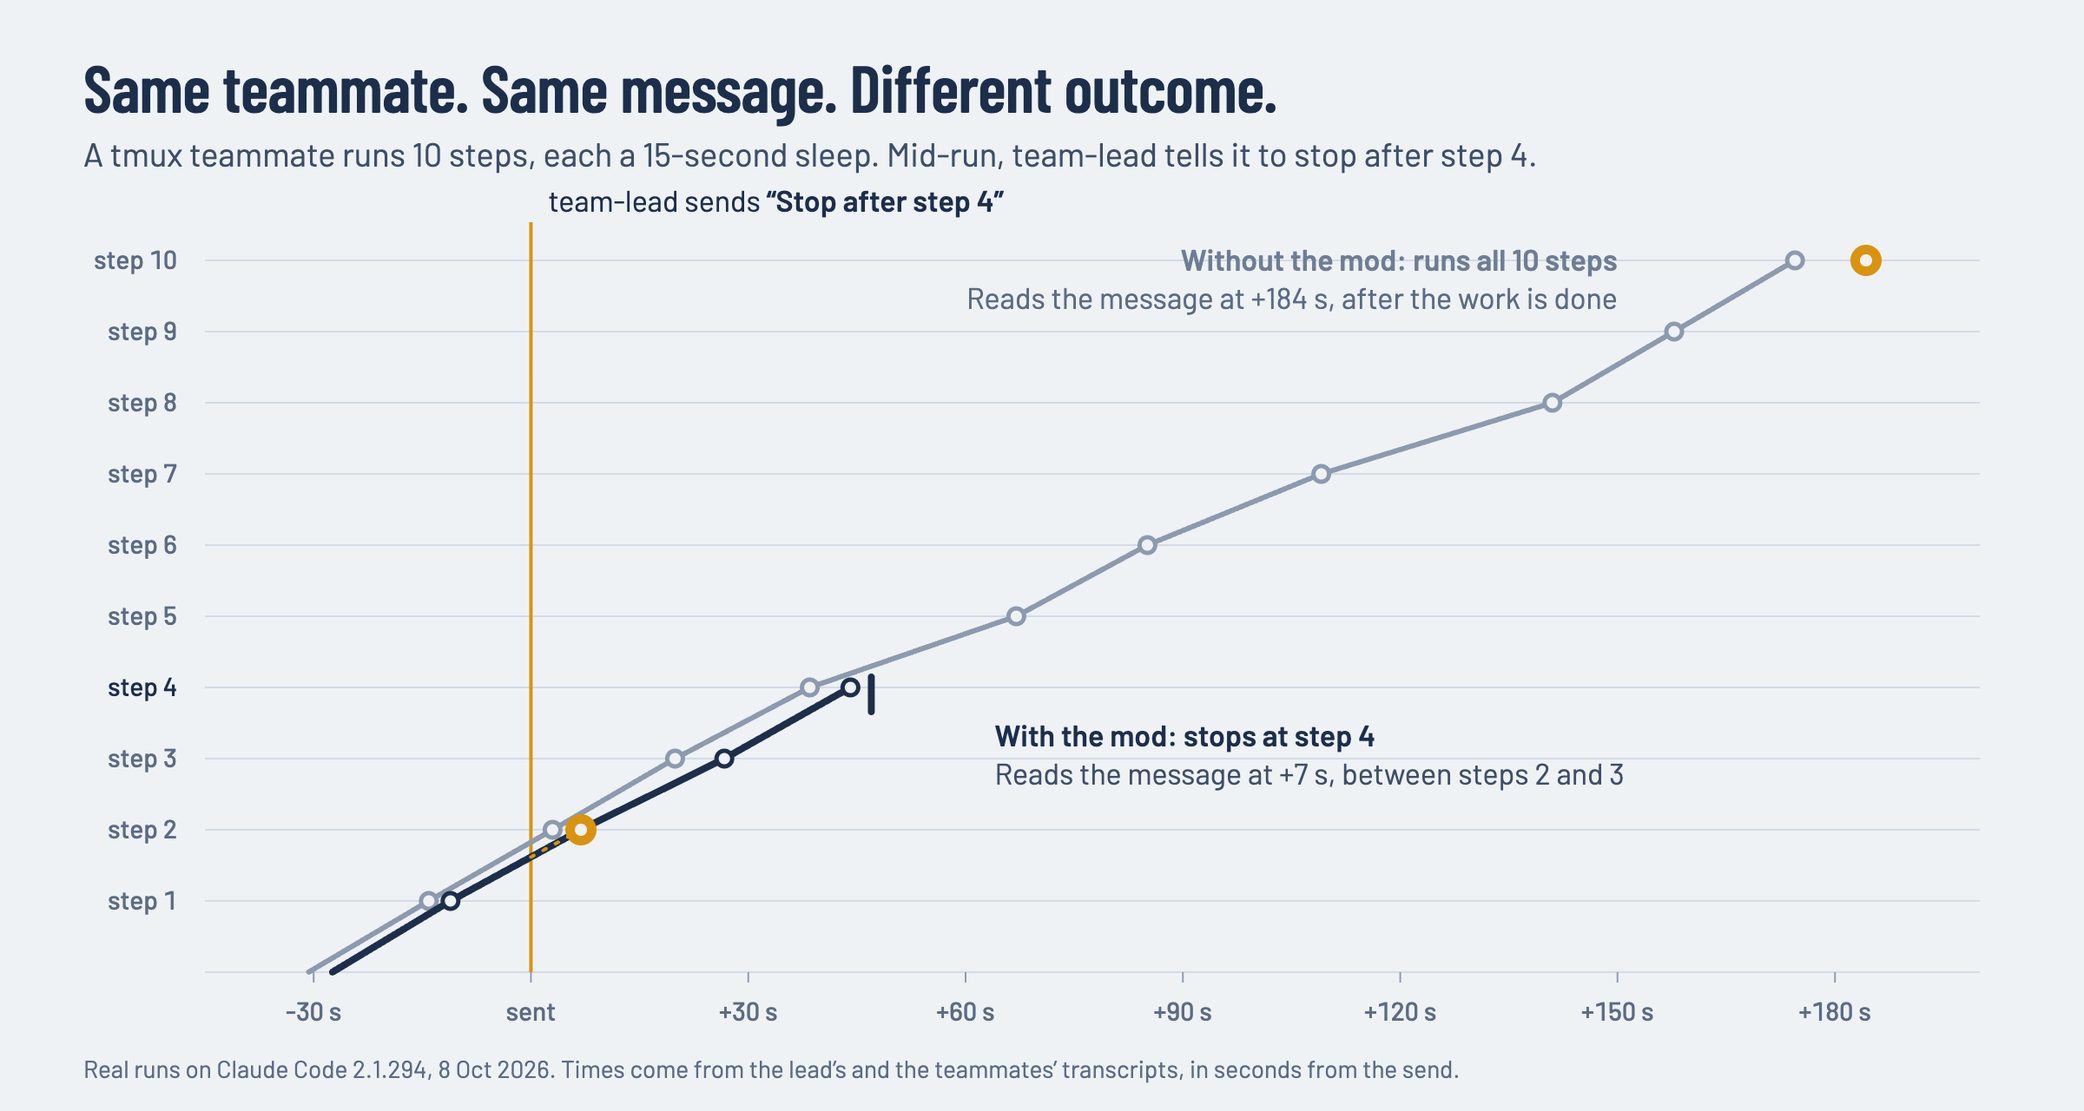
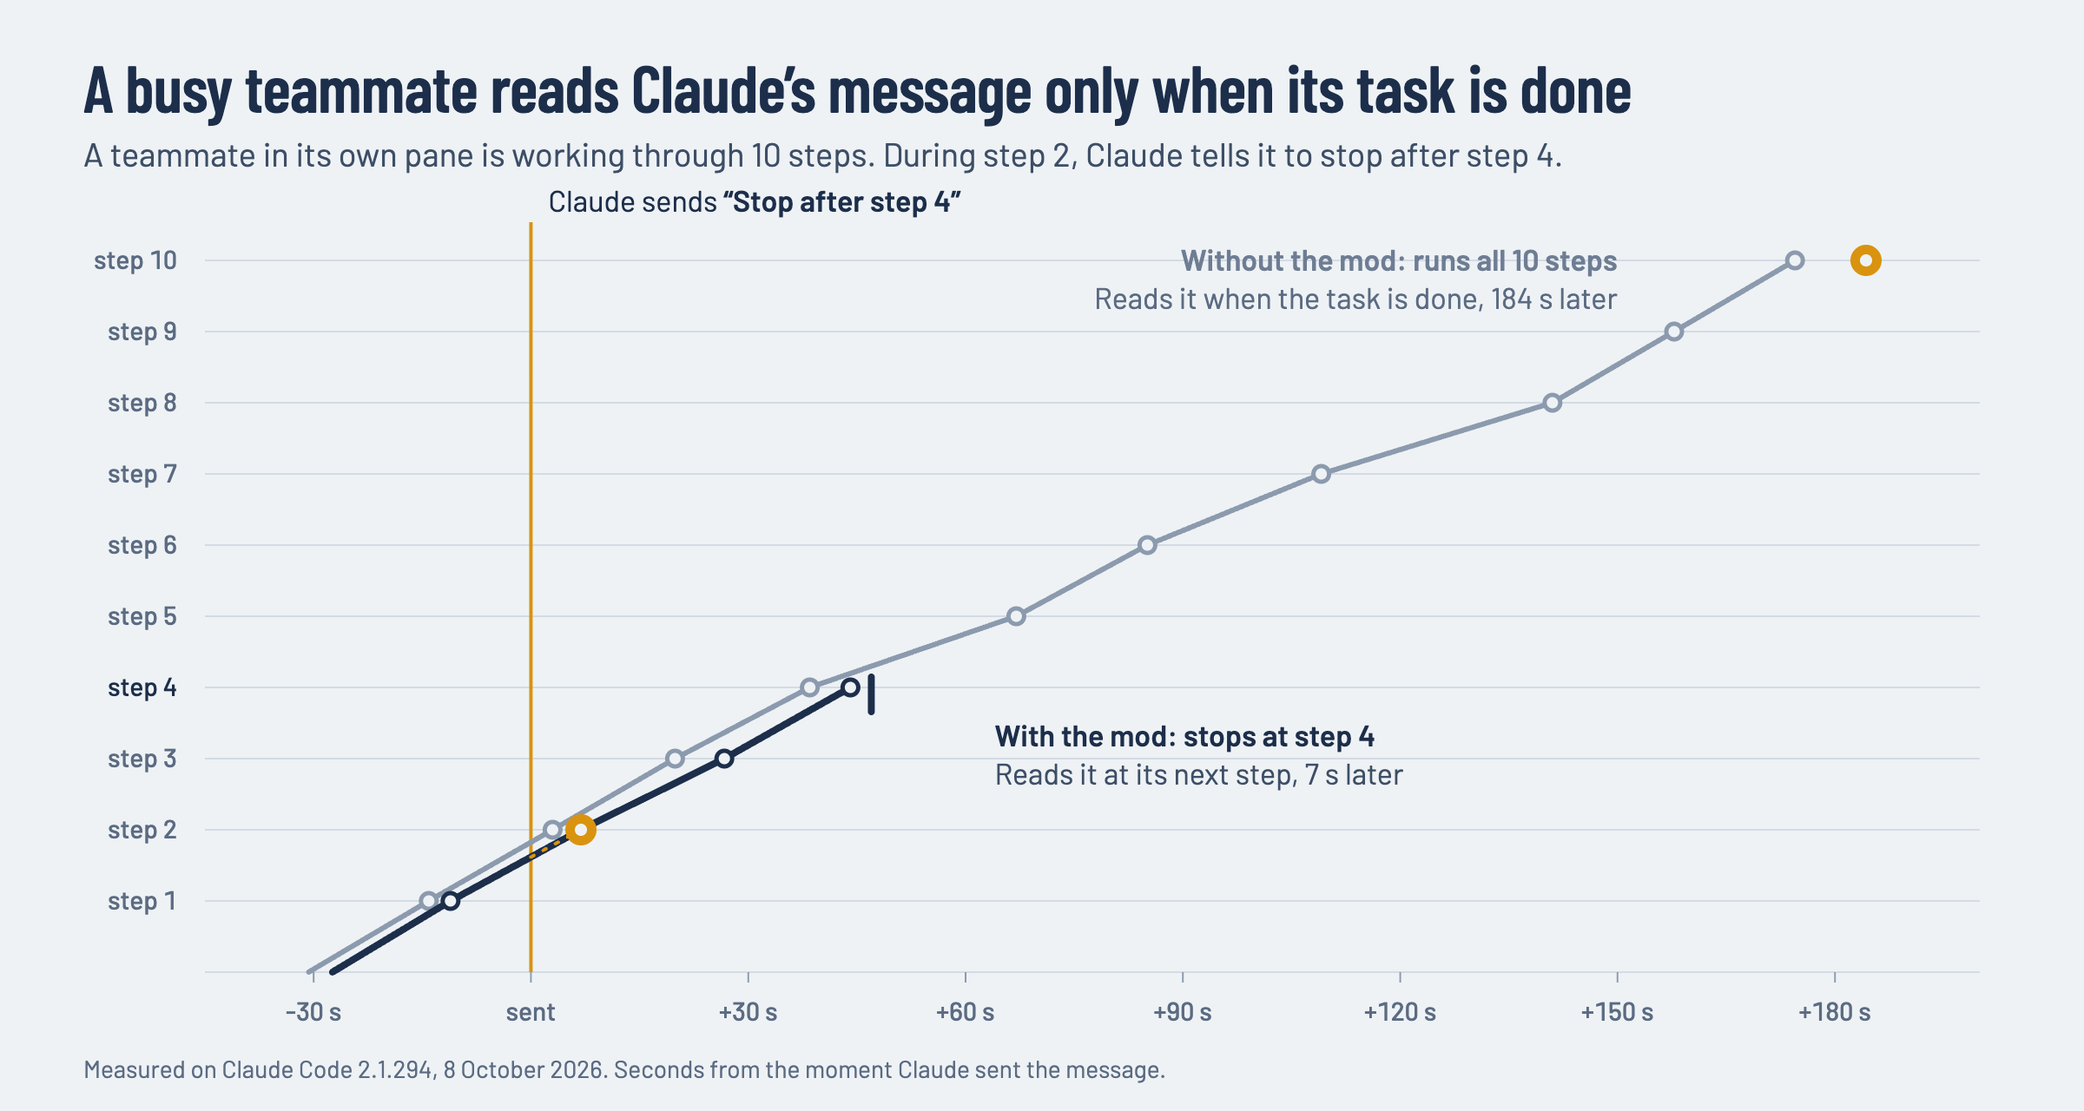
Rewrite the README as plain reference documentation
- Standard sections: what it is, why, features, install, usage,
  configuration, limitations, how it works, development, license.
- Written from the user's side: you ask Claude, Claude messages its agents.
  No persuasion, no instructions addressed to Claude.
- The chart moves under Why and states the problem in its own words.
- The masthead drops SendMessage and says what the mod does.

Claude-Session: https://claude.ai/code/session_018UedULr4ikvwnNQLrpfBNW

diff --git a/docs/figures/build.py b/docs/figures/build.py
@@ -56,7 +56,7 @@ def proof() -> str:
 
     # the dispatch: team-lead's message at t = 0
     svg.append(f'<line x1="{X(0):.1f}" x2="{X(0):.1f}" y1="{top - 22}" y2="{bottom}" stroke="{AMBER}" stroke-width="2"/>')
-    svg.append(f'<text x="{X(0) + 10:.1f}" y="{top - 28}" class="note" fill="{INK}">team-lead sends '
+    svg.append(f'<text x="{X(0) + 10:.1f}" y="{top - 28}" class="note" fill="{INK}">Claude sends '
                f'<tspan font-weight="600">“Stop after step 4”</tspan></text>')
 
     def run(series, colour, width):
@@ -84,13 +84,13 @@ def proof() -> str:
 
     labels = [
         (X(64), Y(4) + 34, INK, 600, 'With the mod: stops at step 4'),
-        (X(64), Y(4) + 56, '#3D4E66', 400, 'Reads the message at +7 s, between steps 2 and 3'),
+        (X(64), Y(4) + 56, '#3D4E66', 400, 'Reads it at its next step, 7 s later'),
     ]
     for x, y, colour, weight, text in labels:
         svg.append(f'<text x="{x:.1f}" y="{y:.1f}" class="label" font-weight="{weight}" fill="{colour}">{text}</text>')
     for y, colour, weight, text in [
         (Y(10) + 6, '#6E7D93', 600, 'Without the mod: runs all 10 steps'),
-        (Y(10) + 28, '#5B6B82', 400, 'Reads the message at +184 s, after the work is done'),
+        (Y(10) + 28, '#5B6B82', 400, 'Reads it when the task is done, 184 s later'),
     ]:
         svg.append(f'<text x="{X(150):.1f}" y="{y:.1f}" text-anchor="end" class="label" font-weight="{weight}" fill="{colour}">{text}</text>')
 
@@ -105,10 +105,10 @@ svg{{position:absolute;left:0;top:0}}
 .note{{font:400 17px Barlow}}
 .label{{font-family:Barlow;font-size:17px}}
 </style></head><body><div id="fig">
-<h1>Same teammate. Same message. Different outcome.</h1>
-<p>A tmux teammate runs 10 steps, each a 15-second sleep. Mid-run, team-lead tells it to stop after step 4.</p>
+<h1>A busy teammate reads Claude’s message only when its task is done</h1>
+<p>A teammate in its own pane is working through 10 steps. During step 2, Claude tells it to stop after step 4.</p>
 <svg width="{w}" height="{h}" viewBox="0 0 {w} {h}">{"".join(svg)}</svg>
-<div class="p foot">Real runs on Claude Code 2.1.294, 8 Oct 2026. Times come from the lead’s and the teammates’ transcripts, in seconds from the send.</div>
+<div class="p foot">Measured on Claude Code 2.1.294, 8 October 2026. Seconds from the moment Claude sent the message.</div>
 </div></body></html>'''
 
 
@@ -185,8 +185,8 @@ svg{{position:absolute;left:0;top:0}}
 .agent{{font:600 27px "Barlow Condensed";letter-spacing:0.01em}}
 </style></head><body><div id="fig">
 <div class="word">BetterAgent<br>Messaging</div>
-<div class="promise"><b>For Claude Code subagents and agent teams.</b><br>Your message reaches a working teammate at its next step, not after it finishes.</div>
-<div class="verbs"><span>SendMessage</span><span class="hold">hold:</span><span>release</span><span>standing:</span><span>to: "all"</span></div>
+<div class="promise"><b>For Claude Code subagents and agent teams.</b><br>Messages reach a working agent at its next step, not after it finishes.</div>
+<div class="verbs"><span class="hold">hold:</span><span class="hold">hold ship:</span><span>release</span><span>standing:</span></div>
 <svg width="{w}" height="{h}" viewBox="0 0 {w} {h}">{"".join(svg)}</svg>
 </div></body></html>'''
 

diff --git a/README.md b/README.md
@@ -1,12 +1,30 @@
 <p align="center">
-  <img src="docs/images/hero.png" width="100%" alt="BetterAgentMessaging for Claude Code subagents and agent teams: your message reaches a working teammate at its next step, not after it finishes. A train graph shows three agents climbing through their steps while team-lead's messages land on them mid-task, one agent paused by a hold.">
+  <img src="docs/images/hero.png" width="100%" alt="BetterAgentMessaging, for Claude Code subagents and agent teams: messages reach a working agent at its next step, not after it finishes. A train graph shows three agents climbing through their steps while team-lead's messages land on them mid-task, one agent paused by a hold.">
 </p>
 
 # BetterAgentMessaging-CC
 
-A Claude Code mod for subagents and agent teams. When you `SendMessage` a teammate that is busy working, it reads your message at its next step instead of after it has finished. Teammates' messages reach you the same way. You also get directives the harness enforces (`hold:`, `hold ship:`, `release`, `standing:`) and a live view of what every agent is doing.
+A Claude Code mod that delivers messages to agents while they are working, instead of after they finish.
 
-You keep using `SendMessage`. There are no new tools to learn, no inbox files to manage, and no watchers to keep alive.
+> An independent open-source project, not affiliated with or endorsed by Anthropic. It uses Claude Code's mods API, which is in early access and may change.
+
+## Why
+
+In an agent team, a teammate running in its own pane receives messages only between turns. If Claude tells a working teammate to stop or change course, the teammate reads the message after it has finished its task. Reports from teammates to Claude are held the same way, until Claude's own turn ends.
+
+<p align="center">
+  <img src="docs/images/before-after.png" width="100%" alt="Chart of a teammate's steps over time after Claude tells it, during step 2, to stop after step 4. Without the mod it runs all 10 steps and reads the message when the task is done, 184 seconds later. With the mod it reads the message at its next step, 7 seconds later, and stops at step 4.">
+</p>
+
+The runs behind this chart are in [docs/experiment.md](docs/experiment.md).
+
+## Features
+
+- **Mid-task delivery.** A working teammate reads a message at its next step. Teammates' reports reach Claude while it is working.
+- **Holds.** `hold:` blocks every tool call of an agent and of the helpers it starts. `hold ship:` blocks only pushes, merges, releases, publishing, deploys and `rm -rf`. `release` lifts either. Claude Code enforces holds; the agent does not have to comply.
+- **Standing rules.** `standing:` sets a rule that is restated to the agent after context compaction. Sent to `all`, it also goes to agents started later.
+- **Status.** A line above the prompt shows unread mid-task messages and any paused or stuck agent. `/agent-status` lists every agent, and Claude is told when an agent looks stuck.
+- **Delivery fixes.** Teammate reports addressed to `main` or `lead` are delivered to Claude, and a teammate that finishes without reporting has its whole final answer forwarded.
 
 ## Install
 
@@ -14,9 +32,9 @@ You keep using `SendMessage`. There are no new tools to learn, no inbox files to
 claude plugin install better-agent-messaging --marketplace flyryan/BetterAgentMessaging-CC
 ```
 
-Run it in your shell, then restart any open Claude Code sessions. It adds this repository as a plugin marketplace and installs the mod at **user scope**, the default. User scope is the one that matters: the mod has to load in every Claude Code process, which means your session and each teammate's pane. Inside Claude Code, the same install is `/plugin install better-agent-messaging --marketplace flyryan/BetterAgentMessaging-CC`.
+Restart any open Claude Code sessions afterwards. The mod installs at user scope (the default), so it loads in every Claude Code process, including each teammate's pane. Inside Claude Code the same install is `/plugin install better-agent-messaging --marketplace flyryan/BetterAgentMessaging-CC`.
 
-**Requirements:** Claude Code 2.1.294 or later, which is where mods (function hooks) are available. It works with plain background subagents and with [agent teams](https://code.claude.com/docs/en/agent-teams); teammates in their own tmux panes gain the most.
+Requires Claude Code 2.1.294 or later. Works with background subagents and with [agent teams](https://code.claude.com/docs/en/agent-teams); teammates in their own tmux panes benefit most.
 
 <details>
 <summary>Check, update or remove it</summary>
@@ -27,92 +45,57 @@ claude plugin update better-agent-messaging   # then restart open sessions
 claude plugin uninstall better-agent-messaging
 ```
 
-In a session, `/agent-status` exists only while the mod is loaded.
+`/agent-status` exists only while the mod is loaded.
 </details>
 
-> An independent open-source project. Not affiliated with or endorsed by Anthropic. The mods API is early access, so a later Claude Code release may change it.
+## Usage
 
-## The problem
+There is nothing to set up. Ask Claude in plain language, for example "hold the reviewer's pushes until QA signs off", and Claude puts the matching directive on the first line of its message to that agent. The mod teaches Claude the directives and adds them to every agent's instructions.
 
-Run an agent team with teammates in their own tmux panes, and send a busy teammate "stop after step 4", and the message waits in its mailbox until its turn is over. It arrives after step 10. Reports travel the same way: a teammate's update to the lead waits until the lead's own turn ends.
-
-Here is that exact run, before and after the mod: the same teammate, the same task and the same message.
-
-<p align="center">
-  <img src="docs/images/before-after.png" width="100%" alt="Chart of steps reached over time. Without the mod the teammate runs all 10 steps and reads the message 184 seconds after it was sent. With the mod it reads the message 7 seconds after the send, between steps 2 and 3, and stops at step 4.">
-</p>
-
-Without the mod, the teammate read the message 184 seconds after it was sent, once all ten steps were done. With the mod, it read it 7 seconds in, at its next step, and stopped at step 4. [Read about the runs](docs/experiment.md).
-
-## Use it
-
-Send messages exactly as before. A teammate that is working gets your message at its next step, framed so it knows it came from you mid-task and that it outranks its original brief. Your teammates' reports land in your turn while you are still working. You see it arrive too: a line directly above the pane's prompt shows who sent it, whether the agent has read it yet, and its first line, such as `team-lead sent (unread): stop after step 4`. It says `(read)` once the agent's next model request carries the message, then clears 15 seconds later. The transcript keeps the whole message under the sender's name in its team color, the way Claude Code shows a teammate's message.
-
-### Directives
-
-Start a message's first line with one of these, and the agent's own process enforces it:
-
-| First line | What happens |
+| First line | Effect |
 |---|---|
-| `hold: <reason>` | The harness refuses every tool the agent calls (SendMessage still works) until you send `release`. A hold also covers any helper agents it starts. |
-| `hold ship: <reason>` | Only shipping is refused: `git push`, PR merges, releases, `npm publish`, deploys, `rm -rf`. Other work carries on. |
-| `release` or `release: <note>` | Lifts the hold. |
-| `standing: <rule>` | A rule that stays in force. It is restated to the agent after its context is compacted. |
-| `standing clear` | Drops the standing orders. |
+| `hold: <reason>` | Refuses every tool call except messaging, until `release`. |
+| `hold ship: <reason>` | Refuses `git push`, PR merges, releases, `npm publish`, deploys and `rm -rf`, until `release`. |
+| `release` or `release: <note>` | Lifts a hold. |
+| `standing: <rule>` | Keeps a rule in force across compaction. |
+| `standing clear` | Drops all standing rules. |
 
-```text
-SendMessage  to: "review"   message: "hold ship: QA hasn't signed off yet"
-SendMessage  to: "all"      message: "standing: run the test suite before every commit"
-```
-
-Send to `all` to reach every running or idle agent and teammate at once. (`SendMessage` refuses `*` before any mod can see it.) A standing order sent to `all` is also written into the brief of every agent you spawn afterwards.
-
-The lead learns these directives without being told. The mod adds a short section to its system prompt, or, where Claude Code keeps installed plugins out of the system prompt (machines with managed settings, Team and Enterprise plans), a note in its conversation that it reads from its second request on. Every agent you spawn learns how to read them from a paragraph added to its brief.
-
-### See what your agents are doing
+A message to `all` reaches every running or idle agent.
 
 <p align="center">
-  <img src="docs/images/team-window.png" width="100%" alt="A tmux window with three Claude Code panes. Left, the lead, which has just sent two messages mid-task; above its prompt one dim line reads: review can't ship: QA hasn't signed off. Top right, teammate impl, on step 4 of 8; above its prompt: team-lead sent: also write DONE to impl.log after your last step. Bottom right, teammate review, on check 4; above its prompt: team-lead sent: hold ship: QA hasn't signed off, and below it, team-lead blocked shipping: QA hasn't signed off.">
+  <img src="docs/images/team-window.png" width="100%" alt="A tmux window with three Claude Code panes. Left, Claude as team-lead, which has just sent two messages mid-task; above its prompt one dim line reads: review can't ship: QA hasn't signed off. Top right, teammate impl, on step 4 of 8; above its prompt: team-lead sent: also write DONE to impl.log after your last step. Bottom right, teammate review, on check 4; above its prompt: team-lead sent: hold ship: QA hasn't signed off, and below it, team-lead blocked shipping: QA hasn't signed off.">
 </p>
 
-- **Above the prompt**, a dim line appears only when there is something Claude Code's own agent list doesn't show, always led by the agent's name: `review can't ship: QA hasn't signed off`, `docs is paused: waiting for review`, `impl looks stuck: in Bash for 47m`. A held teammate's own pane shows its hold the same way (`team-lead blocked shipping: …`), and any pane shows a message that arrived mid-turn until it has been read (`impl sent (unread): tests pass, opening the PR`).
-- **ListAgents** results gain a live-state table. When the lead lists its agents, it sees what each one is doing.
-- **`/agent-status`** opens the same table in a pane.
-- **Stale agents** are reported to the lead on their own. An agent counts as stale after 20 minutes with no step and no tool running, or after 45 minutes inside a single tool call. Both times are configurable.
+The line above each prompt shows what is not visible elsewhere: a mid-task message until it is read (`team-lead sent (unread): …`, then `(read)` for 15 seconds), a teammate's own hold (`team-lead blocked shipping: …`), and in Claude's pane any agent that is paused or stuck (`review can't ship: …`, `impl looks stuck: in Bash for 47m`). `team-lead` is Claude's name in its team.
 
 <p align="center">
   <img src="docs/images/ship-hold.png" width="602" alt="Teammate review's pane. It runs git push origin main once, and the harness refuses it: Error: On a ship hold by team-lead: QA hasn't signed off. Pushing, merging, releasing, publishing, deploying and rm -rf are refused until team-lead sends release. Other work may continue. review reports the refusal and does not retry. Above its prompt: team-lead blocked shipping: QA hasn't signed off.">
 </p>
 
-Under `hold ship:`, `review` first holds back on its own. Asked to try the push once anyway, it is refused by the harness, not by its own judgement, and the remote does not move.
-
-### Smaller fixes that come with it
-
-- **Wrong addresses.** In a pane teammate's process, `"main"` names the teammate itself, so a teammate that reports to `"main"` or `"lead"` used to fail. The mod sends it to `team-lead`.
-- **Whole final answers.** A teammate whose turn ended without messaging you used to reach you only as a short idle notice. Now its whole final answer is forwarded.
-- **Late arrivals.** A message that lands just as an agent finishes its last step starts a short follow-up turn, so it is never left unread.
-
-## What it does not do
-
-- **It cannot interrupt a running command.** A message lands at the agent's next step, and a hold refuses the next tool call. A 10-minute build already running finishes first.
-- **It leaves subagent delivery to the engine.** On 2.1.294 the engine already gives a background subagent a message at its next tool round, so the mod doesn't touch that path. Holds, standing orders and the live view still apply to subagents.
-- **Directives come only from `team-lead`.** A pane teammate takes directives from `team-lead` alone. The team mailbox is a file any process of the same user can write, so this prevents mistakes, not attacks.
-- **`hold ship:` reads command text.** It matches Bash commands against a pattern. Treat it as a safety net, not a sandbox, and set `shipPattern` for anything else it should catch.
+A push attempted under `hold ship:` is refused by Claude Code.
 
 ## Configuration
 
-These appear under the mod's name in `/config`:
+Set in `/config` under the mod's name:
 
-| Setting | Default | |
+| Setting | Default | Meaning |
 |---|---|---|
-| `staleMinutes` | `20` | No step and no tool for this long counts as stale. |
-| `toolStaleMinutes` | `45` | One tool call running this long counts as stale. |
+| `staleMinutes` | `20` | An agent with no step and no tool for this long is reported as stuck. |
+| `toolStaleMinutes` | `45` | An agent inside one tool call for this long is reported as stuck. |
 | `shipPattern` | empty | A regular expression for more Bash commands `hold ship:` refuses. The built-in list always applies. |
 | `trace` | `false` | Writes every decision the mod makes to `~/.claude/better-agent-messaging/trace/`. |
 
+## Limitations
+
+- A message is read at the agent's next step. A command that is already running, such as a long build, finishes first.
+- Background subagents already receive messages at their next step from Claude Code itself; for them the mod adds holds, standing rules and status only.
+- Pane teammates accept directives only from `team-lead`. The team mailbox is a file any process of the same user can write, so this guards against mistakes, not attacks.
+- `hold ship:` matches Bash command text against a pattern. It is a safety net, not a sandbox.
+- On machines with managed settings, and on Team and Enterprise plans, Claude Code keeps installed plugins out of the system prompt. There the mod teaches Claude through a note in the conversation, which Claude reads from its second request on.
+
 ## How it works
 
-Every process of the team loads the mod. Each one fixes delivery for its own conversation and enforces the directives aimed at the agents it runs. Teammates write a small status file that the lead reads for its live view. [How it works](docs/how-it-works.md) walks through the delivery path, the hold gate, the status files and the Claude Code events the mod hooks.
+Every Claude Code process in the team loads the mod. Each one handles delivery into its own conversation and enforces directives for the agents it runs; teammates write a small status file that Claude's process reads. [docs/how-it-works.md](docs/how-it-works.md) covers the delivery path, the hold gate, the status files and the Claude Code events the mod uses.
 
 ## Development
 
@@ -120,8 +103,8 @@ Every process of the team loads the mod. Each one fixes delivery for its own con
 git clone https://github.com/flyryan/BetterAgentMessaging-CC
 cd BetterAgentMessaging-CC
 claude --plugin-dir .            # run a session with your working copy
-claude plugin validate .         # what the engine will load, and what it would refuse
-claude plugin test .             # the test suite
+claude plugin validate .         # check what Claude Code will load
+claude plugin test .             # run the tests
 tsc -p .                         # type-check, once a session has loaded the mod
 ```
 
